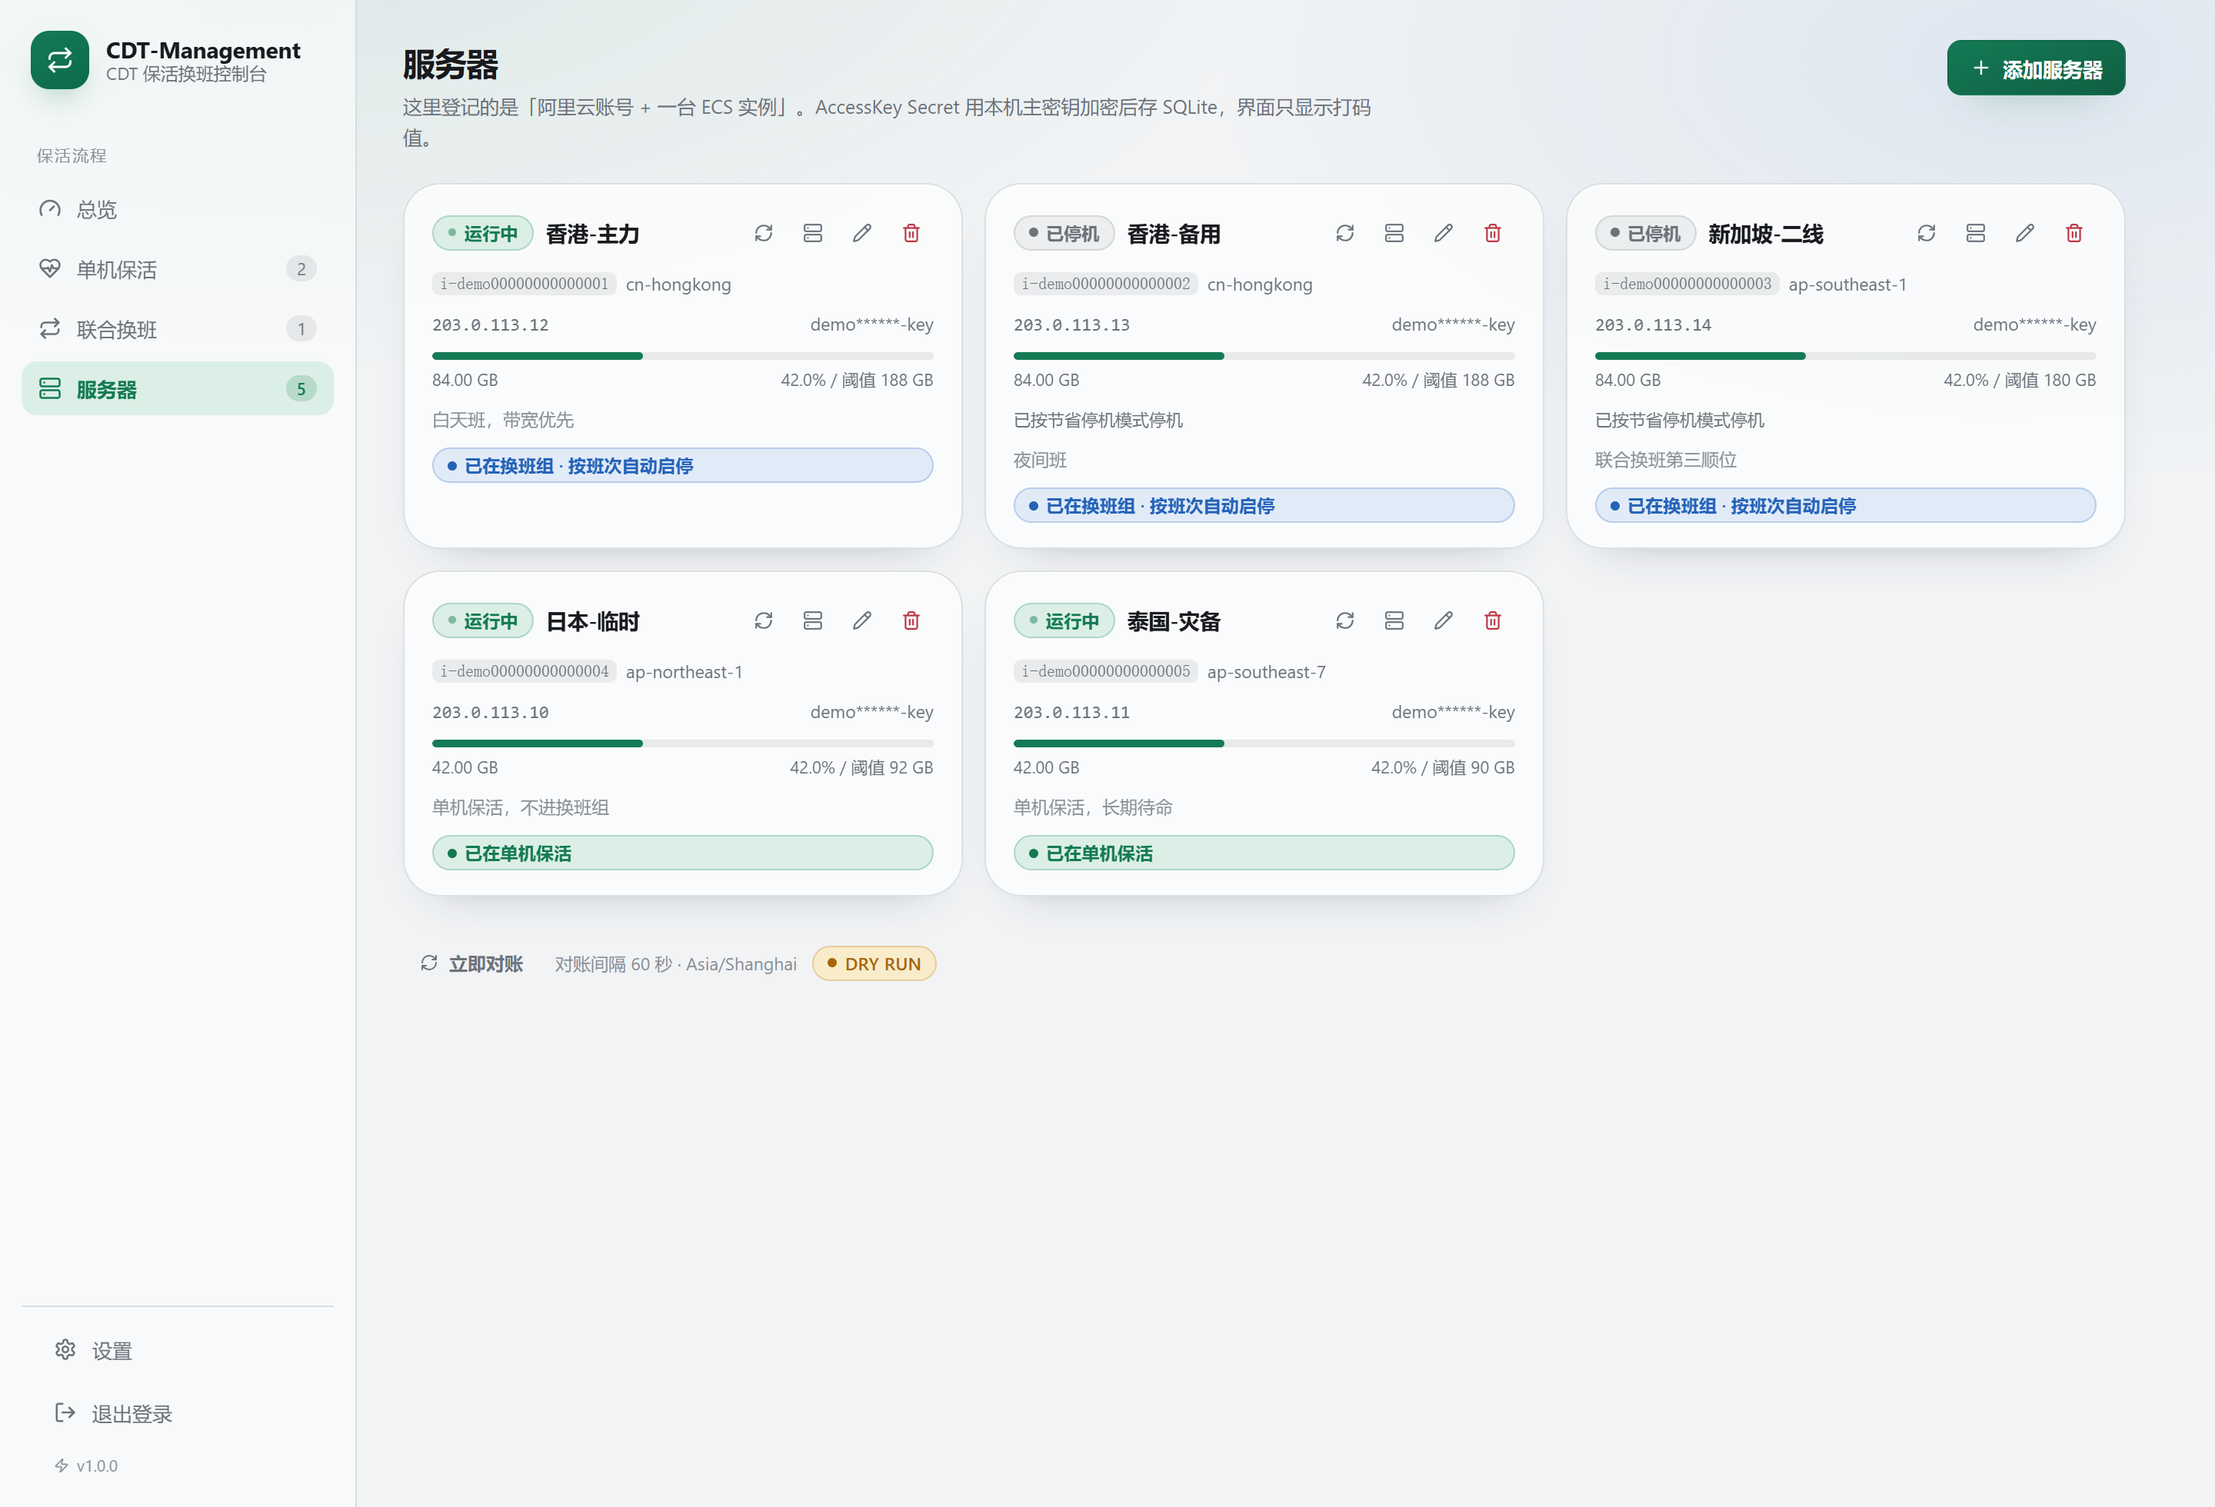
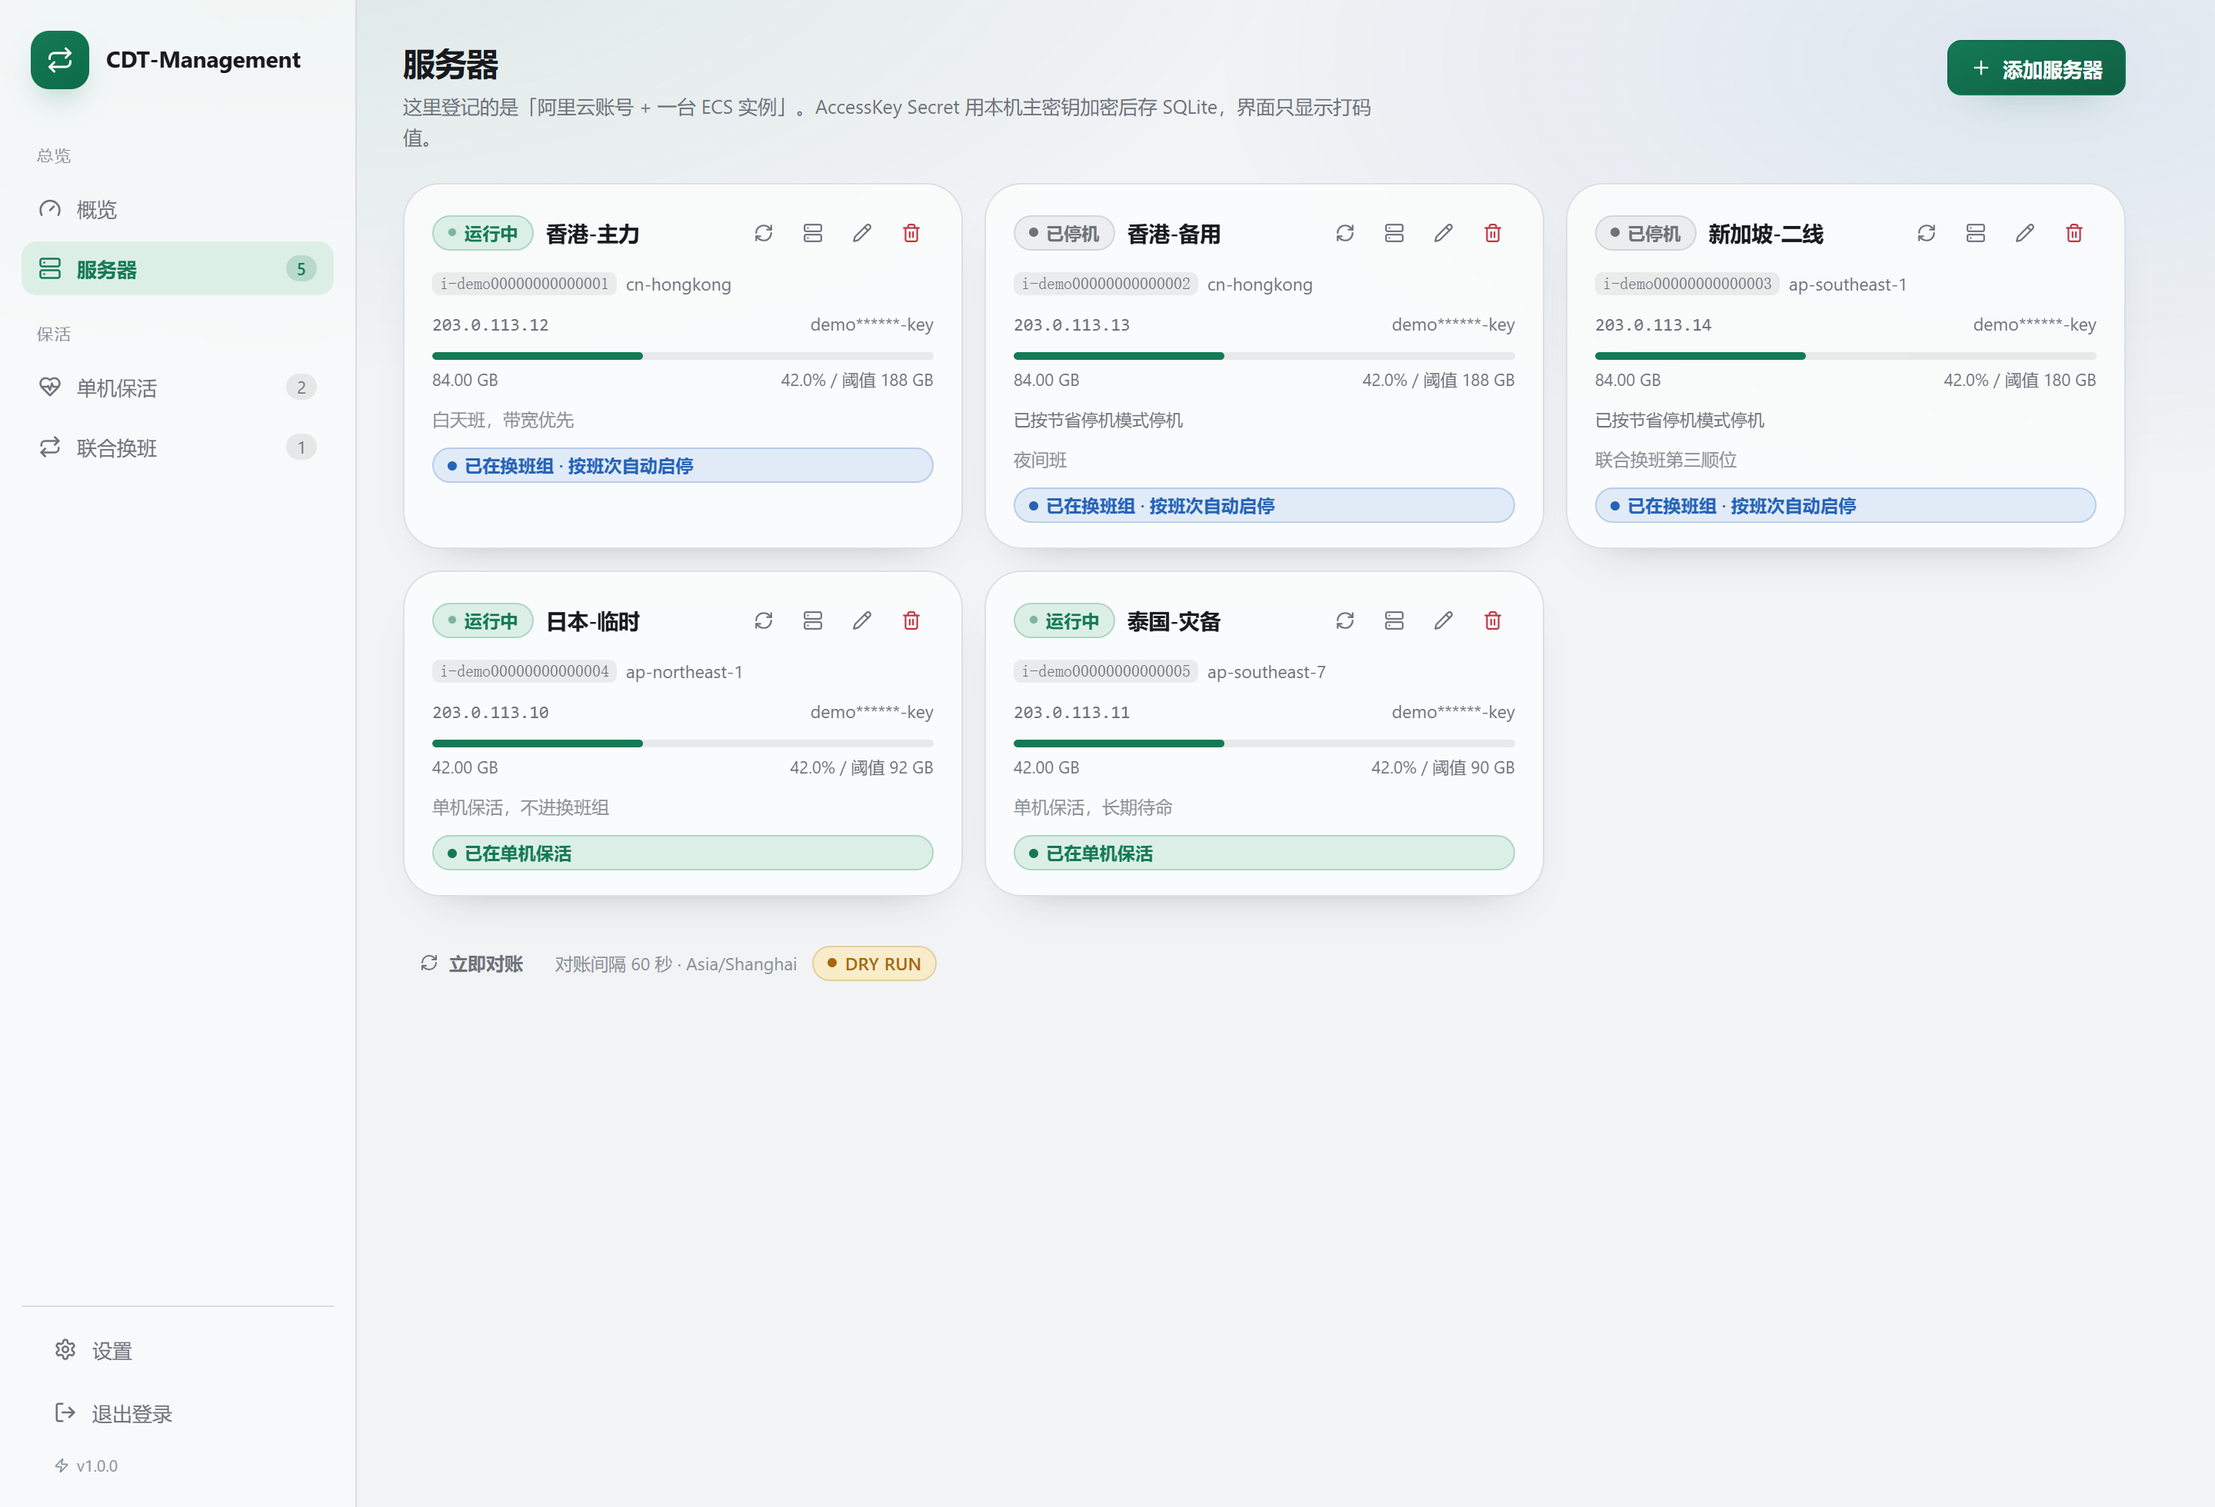
feat(ui): 侧栏分成「总览」「保活」两组，去掉品牌副标题
- 总览组：概览、服务器
- 保活组：单机保活、联合换班
- 品牌区只留名字，不再显示「CDT 保活换班控制台」
- 窄屏仍是两行：品牌 + 设置/退出图标，下面一排导航
- 换班组成员选择器不再允许重复选中同一台
- 已入组的机器在「单机保活」里显示为「已让位给换班组」，开关禁用
- 通知开关拆成「超限停机」与「全局熔断」两个
- 重新生成全部界面截图

Changed region(s): [[0.0, 0.1556, 0.1562, 0.3112], [0.0312, 0.0311, 0.125, 0.0622]]

diff --git a/web/src/App.tsx b/web/src/App.tsx
@@ -29,11 +29,24 @@ type Toast = { id: number; tone: 'success' | 'error' | 'info'; message: string }
 
 const REFRESH_MS = 10_000
 
-const NAV: { key: View; label: string; icon: typeof Gauge }[] = [
-  { key: 'dashboard', label: '总览', icon: Gauge },
-  { key: 'keepalive', label: '单机保活', icon: HeartPulse },
-  { key: 'shift', label: '联合换班', icon: Repeat },
-  { key: 'servers', label: '服务器', icon: ServerIcon },
+type NavItem = { key: View; label: string; icon: typeof Gauge }
+type NavGroup = { title: string; items: NavItem[] }
+
+const NAV_GROUPS: NavGroup[] = [
+  {
+    title: '总览',
+    items: [
+      { key: 'dashboard', label: '概览', icon: Gauge },
+      { key: 'servers', label: '服务器', icon: ServerIcon },
+    ],
+  },
+  {
+    title: '保活',
+    items: [
+      { key: 'keepalive', label: '单机保活', icon: HeartPulse },
+      { key: 'shift', label: '联合换班', icon: Repeat },
+    ],
+  },
 ]
 
 export default function App() {
@@ -294,34 +307,37 @@ export default function App() {
           </div>
           <div className="brand-text">
             <strong>{overview.brand}</strong>
-            <span>CDT 保活换班控制台</span>
           </div>
         </div>
 
-        <div className="sidebar-group">保活流程</div>
         <nav className="nav-list" aria-label="主视图">
-          {NAV.map((item) => {
-            const Icon = item.icon
-            const count =
-              item.key === 'keepalive'
-                ? overview.keepalives.length
-                : item.key === 'shift'
-                  ? overview.groups.length
-                  : item.key === 'servers'
-                    ? overview.servers.length
-                    : 0
-            return (
-              <button
-                key={item.key}
-                className={`nav-item${view === item.key ? ' on' : ''}`}
-                onClick={() => setView(item.key)}
-              >
-                <Icon size={15} />
-                <span className="nav-text">{item.label}</span>
-                {count > 0 && <span className="nav-count">{count}</span>}
-              </button>
-            )
-          })}
+          {NAV_GROUPS.map((group) => (
+            <div className="nav-group" key={group.title}>
+              <div className="sidebar-group">{group.title}</div>
+              {group.items.map((item) => {
+                const Icon = item.icon
+                const count =
+                  item.key === 'keepalive'
+                    ? overview.keepalives.length
+                    : item.key === 'shift'
+                      ? overview.groups.length
+                      : item.key === 'servers'
+                        ? overview.servers.length
+                        : 0
+                return (
+                  <button
+                    key={item.key}
+                    className={`nav-item${view === item.key ? ' on' : ''}`}
+                    onClick={() => setView(item.key)}
+                  >
+                    <Icon size={15} />
+                    <span className="nav-text">{item.label}</span>
+                    {count > 0 && <span className="nav-count">{count}</span>}
+                  </button>
+                )
+              })}
+            </div>
+          ))}
         </nav>
 
         <div className="sidebar-foot">
@@ -346,6 +362,7 @@ export default function App() {
           <KeepaliveView
             keepalives={overview.keepalives}
             servers={overview.servers}
+            groupedIds={groupedIds}
             busyId={busyServer}
             onAdd={() => setKeepalivePicker(true)}
             onToggle={toggleKeepalive}

diff --git a/web/src/components/SettingsDrawer.tsx b/web/src/components/SettingsDrawer.tsx
@@ -63,6 +63,7 @@ export default function SettingsDrawer({ settings, onClose, onSaved }: Props) {
         notify_on_failover: form.notify_on_failover,
         notify_on_recovery: form.notify_on_recovery,
         notify_on_breaker: form.notify_on_breaker,
+        notify_on_limit_stop: form.notify_on_limit_stop,
         notify_on_error: form.notify_on_error,
         notify_on_keepalive: form.notify_on_keepalive,
         ddns: {
@@ -195,7 +196,7 @@ export default function SettingsDrawer({ settings, onClose, onSaved }: Props) {
               </div>
 
               <div className="field">
-                <label htmlFor="pct">新建账号默认阈值（% 配额）</label>
+                <label htmlFor="pct">新建服务器默认阈值（% 配额）</label>
                 <input
                   id="pct"
                   className="input"
@@ -208,14 +209,14 @@ export default function SettingsDrawer({ settings, onClose, onSaved }: Props) {
                   }
                 />
                 <div className="hint">
-                  每个账号的绝对阈值在「账号」里单独配置；这里只是新增账号时的预填值。
+                  每台服务器的绝对阈值在「服务器」里单独配置；这里只是新增时的预填值。
                 </div>
               </div>
 
               <div>
                 <Switch
                   label="每日流量报告"
-                  hint="到点把两台机器的流量与状态推送一次"
+                  hint="到点把所有服务器的流量与状态推送一次"
                   checked={form.daily_report_enabled}
                   onChange={(value) => patch((draft) => (draft.daily_report_enabled = value))}
                 />
@@ -255,7 +256,14 @@ export default function SettingsDrawer({ settings, onClose, onSaved }: Props) {
                   onChange={(value) => patch((draft) => (draft.notify_on_recovery = value))}
                 />
                 <Switch
-                  label="超限停机 / 全局熔断"
+                  label="超限停机"
+                  hint="当班流量达到阈值且无处可换时，强制节省停机"
+                  checked={form.notify_on_limit_stop}
+                  onChange={(value) => patch((draft) => (draft.notify_on_limit_stop = value))}
+                />
+                <Switch
+                  label="全局熔断"
+                  hint="所有成员都超限时，全部节省停机"
                   checked={form.notify_on_breaker}
                   onChange={(value) => patch((draft) => (draft.notify_on_breaker = value))}
                 />

diff --git a/web/src/components/KeepaliveView.tsx b/web/src/components/KeepaliveView.tsx
@@ -5,6 +5,7 @@ import { Badge, Empty, Meter, statusLabel, statusTone } from './ui'
 type Props = {
   keepalives: Keepalive[]
   servers: Server[]
+  groupedIds: Set<number>
   busyId: number | null
   onAdd: () => void
   onToggle: (item: Keepalive, enabled: boolean) => void
@@ -16,6 +17,7 @@ type Props = {
 export default function KeepaliveView({
   keepalives,
   servers,
+  groupedIds,
   busyId,
   onAdd,
   onToggle,
@@ -107,10 +109,19 @@ export default function KeepaliveView({
 
                 <div className="toggle-row" style={{ paddingTop: 4, paddingBottom: 0, borderBottom: 0 }}>
                   <div className="toggle-text">
-                    <strong style={{ fontSize: 12 }}>
-                      {item.enabled ? '保活运行中' : '已暂停'}
-                    </strong>
-                    <span>暂停后不再自动拉起，实例状态保持不变</span>
+                    {groupedIds.has(item.server_id) ? (
+                      <>
+                        <strong style={{ fontSize: 12, color: 'var(--amber)' }}>已让位给换班组</strong>
+                        <span>这台机器在换班组里，启停由班次决定，保活不会插手</span>
+                      </>
+                    ) : (
+                      <>
+                        <strong style={{ fontSize: 12 }}>
+                          {item.enabled ? '保活运行中' : '已暂停'}
+                        </strong>
+                        <span>暂停后不再自动拉起，实例状态保持不变</span>
+                      </>
+                    )}
                   </div>
                   <button
                     type="button"
@@ -118,6 +129,7 @@ export default function KeepaliveView({
                     aria-checked={item.enabled}
                     aria-label="保活开关"
                     className={`switch${item.enabled ? ' on' : ''}`}
+                    disabled={groupedIds.has(item.server_id)}
                     onClick={() => onToggle(item, !item.enabled)}
                   />
                 </div>

diff --git a/web/src/components/GroupDialog.tsx b/web/src/components/GroupDialog.tsx
@@ -156,11 +156,17 @@ export default function GroupDialog({ group, servers, onClose, onSaved }: Props)
                 value={row.server_id}
                 onChange={(event) => update(index, { server_id: Number(event.target.value) })}
               >
-                {servers.map((server) => (
-                  <option key={server.id} value={server.id}>
-                    {server.label}
-                  </option>
-                ))}
+                {servers.map((server) => {
+                  // 已经被别的行占用就别再选一次，省得保存时才报「重复添加」
+                  const taken = rows.some(
+                    (other, otherIndex) => otherIndex !== index && other.server_id === server.id,
+                  )
+                  return (
+                    <option key={server.id} value={server.id} disabled={taken}>
+                      {taken ? `${server.label}（已在本组）` : server.label}
+                    </option>
+                  )
+                })}
               </select>
               <div className="member-hours">
                 <input

diff --git a/web/src/components/Auth.tsx b/web/src/components/Auth.tsx
@@ -133,7 +133,7 @@ export default function Auth({ mode, brand, onDone }: Props) {
         <div className="auth-foot">
           {isSetup
             ? '初始化完成后可用环境变量 CDT_ADMIN_USERNAME / CDT_ADMIN_PASSWORD 跳过这一步'
-            : '忘记密码：删除数据目录下的 cdt-shift.db 会重置所有配置'}
+            : '忘记密码：删除数据目录下的 cdt-management.db 会重置所有配置'}
         </div>
       </form>
     </div>

diff --git a/web/src/layout.css b/web/src/layout.css
@@ -31,6 +31,12 @@
   display: contents;
 }
 
+.sidebar .nav-group {
+  display: flex;
+  flex-direction: column;
+  gap: 4px;
+}
+
 .sidebar-group {
   font-size: 10.5px;
   letter-spacing: 0.1em;
@@ -336,6 +342,10 @@
   }
   .sidebar .nav-list::-webkit-scrollbar {
     display: none;
+  }
+  /* 窄屏两组导航合并成一条横向滚动的颗粒 */
+  .sidebar .nav-group {
+    display: contents;
   }
   .nav-item {
     width: auto;

diff --git a/web/src/types.ts b/web/src/types.ts
@@ -110,6 +110,7 @@ export type Settings = {
   notify_on_failover: boolean
   notify_on_recovery: boolean
   notify_on_breaker: boolean
+  notify_on_limit_stop: boolean
   notify_on_error: boolean
   notify_on_keepalive: boolean
   ddns: {

diff --git a/web/src/styles.css b/web/src/styles.css
@@ -721,6 +721,10 @@ button {
 .switch.on::after {
   transform: translateX(17px);
 }
+.switch:disabled {
+  opacity: 0.4;
+  cursor: not-allowed;
+}
 
 .segmented {
   display: inline-flex;

diff --git a/README.md b/README.md
@@ -58,6 +58,8 @@ services:
 ```
 
 ```bash
+mkdir -p /opt/docker/cdt-management
+sudo chown -R 10001:10001 /opt/docker/cdt-management   # 容器内 uid 10001，必须可写
 docker compose up -d
 docker compose logs -f cdt-management
 ```
@@ -72,6 +74,10 @@ cd "$D" && docker compose pull && docker compose up -d
 ### 方式三：docker run
 
 ```bash
+mkdir -p /opt/docker/cdt-management
+# 容器内以 uid 10001 运行，先把数据目录交给它，否则写不了数据库
+sudo chown -R 10001:10001 /opt/docker/cdt-management
+
 docker run -d --name cdt-management --restart unless-stopped --init \
   -p 8282:8080 \
   -e TZ=Asia/Shanghai \
@@ -104,7 +110,7 @@ curl -fsSL https://raw.githubusercontent.com/BeacherZ/cdt-management/main/instal
 
 ## 界面
 
-登录后左边是两条独立的保活流程——**单机保活**、**联合换班**——右边是总览与服务器清单。
+登录后左侧分成两组：**总览**（概览、服务器）和 **保活**（单机保活、联合换班）。
 
 ![总览](docs/screenshots/02-dashboard.png)
 
@@ -184,6 +190,9 @@ curl -fsSL https://raw.githubusercontent.com/BeacherZ/cdt-management/main/instal
 
 关掉「允许流量故障转移」后，当班超限就直接走「超限停机」。
 
+一处细节：**故障转移在一个班次内只发生一次**。切到替补后，本班次剩下的时间都固定在替补上，
+不会每分钟重新判一次、也不会重复记事件或重复推送。
+
 ### DDNS
 
 - 只支持 Cloudflare A 记录，Token 与 Global API Key 两种认证
@@ -239,7 +248,7 @@ Telegram 走 HTML 富文本，邮件走 HTML，Webhook 支持 `{title}` `{text}`
 
 **DDNS 显示「IP 无效跳过」？** 实例还没拿到公网 IP，或者不是公网 IPv4。等下一轮对账，或手动刷新那台服务器。
 
-**两台都超限了怎么办？** 会全局熔断，两台都节省停机，等下个月流量重置后手动开机，或调整阈值。
+**所有成员都超限了怎么办？** 会全局熔断，全部节省停机，等下个月流量重置后手动开机，或调整阈值。
 
 **能不能不下线，只保活？** 用「单机保活」模块，不要放进换班组。
 
